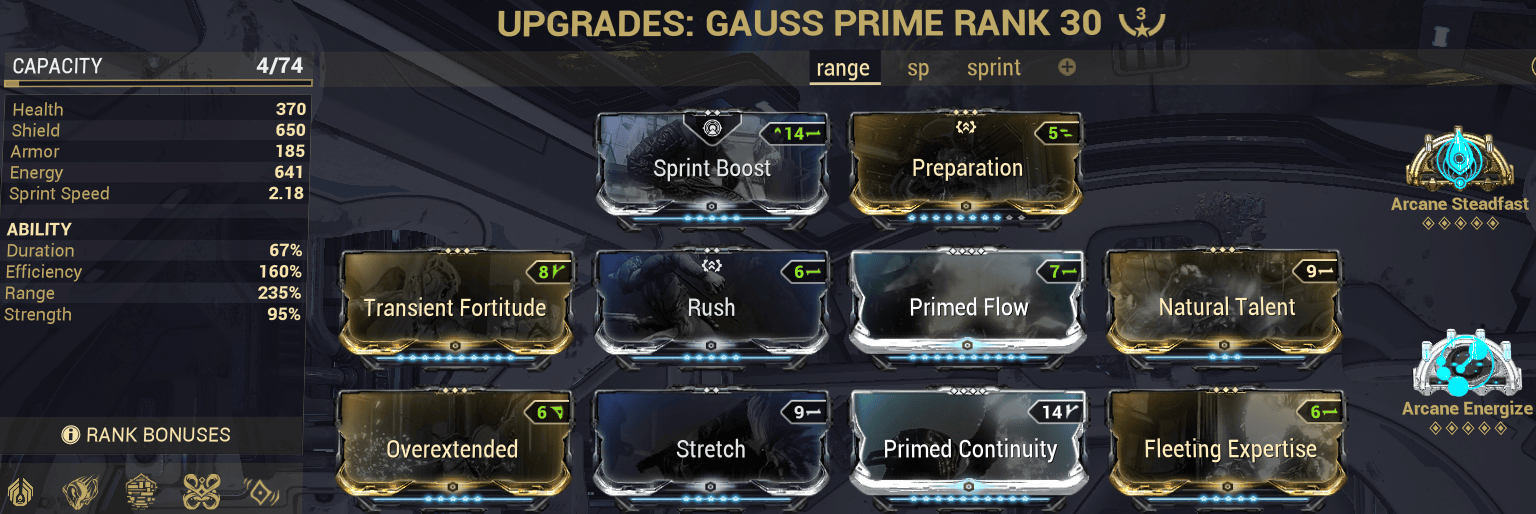
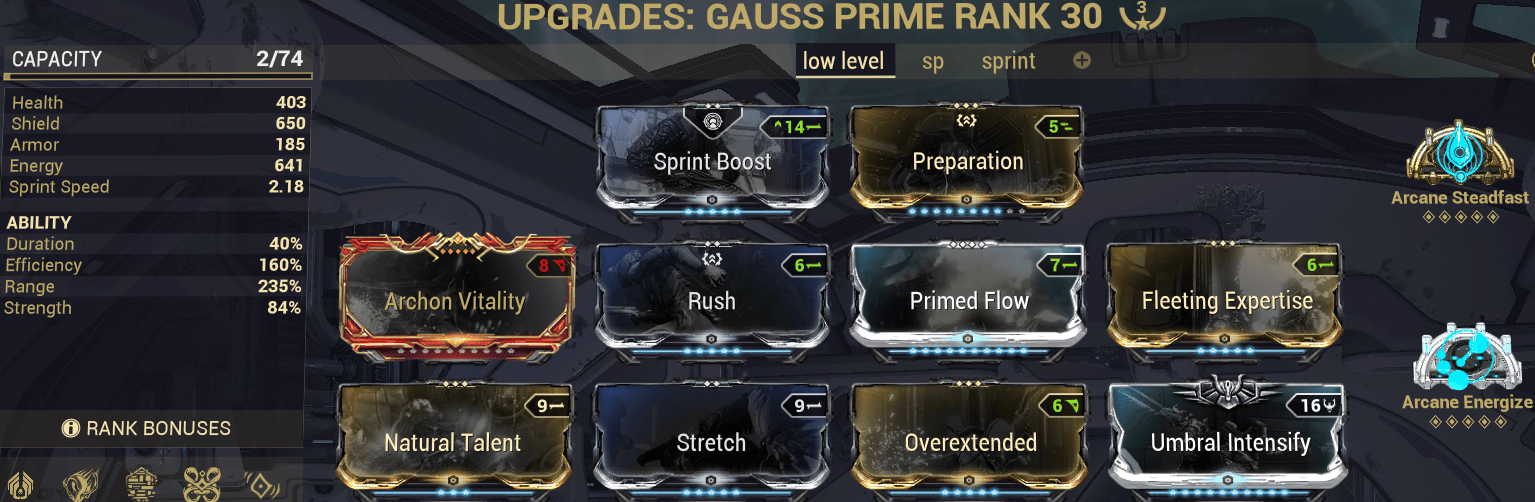
QE{<WE<{QEW{E

diff --git a/buildsforfissures.html b/buildsforfissures.html
@@ -76,7 +76,7 @@
             <!--<iframe id="iframeprogress" width="400" height="225" src="https://www.youtube.com/embed/AjWfY7SnMBI?si=KkwxT_TEeManNPnc" title="YouTube video player" frameborder="0" allow="accelerometer; autoplay; clipboard-write; encrypted-media; gyroscope; picture-in-picture; web-share" referrerpolicy="strict-origin-when-cross-origin" allowfullscreen></iframe>-->
             <div class="pagetext">
                 <p>
-                    The quickest <a href="fissures.html">Void Fissures</a> in Warframe are all exterminate or capture missions, where you will also  have to kill some corrupted enemies to collect reactant to complete the void fissure. <br><br> This is why the best Warframe builds for these quick void fissures must be able to move fast and kill many enemies fast. I would say that the best Warframes for that are Gauss for higher level missions, and Titania with Gauss’ helminth ability injected into her, for lower level missions. <br><br> In both builds, we utilize the power of thermal sunder (gauss’ third ability), and the speed of the Warframe. In game, go to settings > invert tap/hold abilities, and change Gauss to inverted, because we are only going to use thermal sunder’s heat mode. <br><br> When thermal sunder in heat mode is used, it deals damage to enemies around the Warframe, and applies a heat status effect proc. In addition, each subsequent heat proc from thermal sunder deals twice the damage of the previous one. <br><br> Using this ability alone as your damage tool, you can kill several low level enemies with one cast, and you can complete a low level exterminate in about one minute, solo. <br><br> Higher level fissures might take slightly longer, while steel path fissures take about half a minute longer due to the enemies’ sheer effective hitpoints. <br><br> Here are the Warframe builds; Note that these builds have some mods and/or arcanes, which are easiest to get by just buying them with platinum. <br><br> Gauss <br> <img src="/images/gauss1.png" style="width: 100%; height: auto;  display: inline-block; position: relative;"> <br><br> Using this build, you can complete any fast exterminate void fissure in about one minute, and any steel path fast exterminate void fissure in under 2 minutes. <br><br> however, note that to complete steel path exterminates fast, you will need to equip several amber Archon Shards for extra casting speed, to be able to cast thermal sunder more times in the same amount of time, and I would also recommend you to have a strong <a href="https://warframe.fandom.com/wiki/On_Call_Crew"> On Call Crew </a> with a Kuva Zarr with a strong build. 
+                    The quickest <a href="fissures.html">Void Fissures</a> in Warframe are all exterminate or capture missions, where you will also  have to kill some corrupted enemies to collect reactant to complete the void fissure. <br><br> This is why the best Warframe builds for these quick void fissures must be able to move fast and kill many enemies fast. I would say that the best Warframes for that are Gauss for higher level missions, and Titania with Gauss' helminth ability injected into her, for lower level missions. <br><br> You can also use Gauss for lower level missions, I just prefer to use Titania because of her flight.<br><br> In both builds, we utilize the power of thermal sunder (Gauss’ third ability), and the speed of the Warframe. In game, go to settings > invert tap/hold abilities, and change Gauss to inverted, because we are only going to use thermal sunder’s heat mode. <br><br> When thermal sunder in heat mode is used, it deals damage to enemies around the Warframe, and applies a heat status effect proc. In addition, each subsequent heat proc from thermal sunder deals twice the damage of the previous one. <br><br> Using this ability alone as your damage tool, you can kill several low level enemies with one cast, and you can complete a low level exterminate mission in about one minute or less, solo. <br><br> Higher level fissures might take slightly longer, while steel path fissures take about 40 seconds longer due to the enemies' sheer effective hitpoints. <br><br> Here are the Warframe builds; Note that these builds have some mods and arcanes which are easiest to get by just buying them with platinum, which you will need to <a href="plat.html">farm</a> or buy. by the way, you don't need to keep up roar active the entire time, just when you need more damage.<br><br> Gauss <br> <img src="/images/Gauss1.png"> <br><br> High ability range is a must when using thermal sunder as a nuke, so put in Overextended and Stretch. We will also need a lot of energy to spam thermal sunder and use mach rush, so put in Preparation, Primed Flow and maxed Fleeting Expertise. <br><br> Speaking of mach rush, equip Sprint Boost and Rush to spend less time covering X distance thanks to faster sprint speed. <br><br> Umbral Intensify will partially compensate for the Ability Strength reduction from Overextended, use normal intensify instead if it makes more sense in your situation. <br><br> Natural Talent makes you able to cast thermal sunder more times in the same amount of time, and Archon Vitality makes it so that each cast applies 2 heat procs, increasing the damage. <br><br> For Steel Path, I recommend these changes: replace the aura mod with Corrosive Projection to make enemies easier to kill, and replace the maxed Fleeting Expertise + Rush with Rank 4 Fleeting Expertise + Rank 4 Streamline, which will give you exactly 175% Ability Efficiency. <br><br> Steel Path Gauss <img src="/images/gauss2.png"> <br><br> When doing Steel Path fissures with this build, I recommend you to also use several amber <a href="https://warframe.fandom.com/wiki/Archon_Shard">Archon Shards</a> for even more casting speed, and an <a href="https://warframe.fandom.com/wiki/On_Call_Crew">On Call Crew</a> member equipped with a well modded Kuva Zarr to help you clear enemies faster. Also, keep roar active.<br><br> The arcanes are to have more energy to work with, you will be fine even without them for missions which are not on the Steel Path. <br><br> For Arcane Energize, if you can't afford a maxed one, keep in mind that you may buy just 3 of it, and fuse them into a <a href="https://warframe.fandom.com/wiki/Arcane_Enhancement#Rank">Rank 1 Arcane</a>; for 1/7 the cost of the maxed Arcane getting 1/3 of the effect. or buy 6, Fuse them into a Rank 2 arcane, and for 2/7 of the price get 50% of the effect. You get the idea. <br><br> Now, Titania. Titania is a notorious Warframe because she can fly very fast. And if you inject her with Gauss' thermal sunder, you can complete Void Fissures in record time. Here's the build: <br><br> Titania<br><img src="/images/titania1.png"> <br><br> This build is basically the same as the first Gauss build, just with Enemy Radar in the aura mod slot, and Razorwing Blitz instead of Rush. <br><br> Use Unairu focus school with maxed <a href="https://warframe.fandom.com/wiki/Focus/Unairu#Poise">Poise</a> to stop getting staggered when colliding with walls. To activate it with the least disturbance to your gameplay, use transference, then melee, then switch weapon (on PC, by default, 5 + E + F). <br><br> Dex Pixia build<br><img src="/images/dexpixia.png"> <br><br> For Titania's guns, I recommend to use these mods, which result in the combination of corrosive + radiation + heat, Titania's guns with these mods will shred basically any enemy you will face in a normal void fissure. 
                 </p>
             </div>
         </div>

diff --git a/fissures.html b/fissures.html
@@ -76,7 +76,7 @@
             <!--<iframe id="iframeresources" width="400" height="225" src="https://www.youtube.com/embed/AjWfY7SnMBI?si=KkwxT_TEeManNPnc" title="YouTube video player" frameborder="0" allow="accelerometer; autoplay; clipboard-write; encrypted-media; gyroscope; picture-in-picture; web-share" referrerpolicy="strict-origin-when-cross-origin" allowfullscreen></iframe>-->
             <div class="pagetext">
                 <p>
-                    Void Fissures are special missions which work very similarly to regular missions. Before starting a void fissure, you can pick a void relic to open, and in addition to the mission objective, you must collect 10 reactant* to open that void relic. <br><br> Reactant drop from corrupted enemies. During a void fissure, corrupted enemies will occasionally spawn in, and in addition, regular enemies will corrupt automatically, typically shortly after at least half of the tenno squad gets close to them. <br><br> <span class="subheading"> The fastest void fissure missions </span> Void fissures take some time to complete, obviously. Since the reward for completing a void fissure of different missions is the same, it makes sense to go for the ones that take the least amount of time. <br><br> Here is a list of the fastest void fissure missions: <br><br> Top Tier:<br> Lith: Mariana, Earth. Meso: Pallas, Ceres. Neo: Armaros, Europa. Axi: Saxis, Eris. <br><br>Second Best: <br> Lith: E Prime, Earth. Meso: Roche, Phobos. Neo: Baal, Europa. Axi: Isos, Eris. <br><br> The following missions drop Lith relics on completion: <br> Hepit, Void – neo/axi capture. Teshub, Void – neo/axi exterminate. <br><br> The following missions drop Meso/Neo relics on completion:<br> Ukko, Void – neo/axi capture. Oxomoco, Void – neo/axi exterminate. <br><br> <span class="subheading"> Strategy </span> As you may have noticed, the quickest void fissures in the list above are mostly exterminate, and 3 captures. The thing they all have in common is that all you have to do to complete them is move forward, kill and collect reactant, and maybe capture one target. <br><br> This is why the loadouts which allow you to complete these missions the fastest, always include a Warframe that can move fast, and a way to kill enemies fast, usually with the Warframe's abilities, but possibly with other equipment. <br><br> Warframe.school has a separate page about<a href="buildsforfissures.html"> the best Warframe builds for void fissures</a>. <br><br> <span class="subheading">Strategy for beginners</span> If you're a beginner, when doing a void fissure, there will naturally be less expectations from you than from a player with a high mastery rank. However, here are the things which you should never forget: <br><br> Never go into a void fissure without a void relic. <br><br> Always try your best to not fall behind the other players, in terms of your position on the map. Even if it's your first void fissure ever, even using a starter Warframe, it is possible to keep up with almost anyone if your parkour skills are good. <br><br> Here are some things which improve QOL when doing void fissures:  <br><br> Use a companion with the (MAXED!) mod<a href="https://warframe.fandom.com/wiki/Vacuum"> [Vacuum]</a> for robotic companions or <a href="https://warframe.fandom.com/wiki/Fetch"> [Fetch]</a> if you have an animal. <br><br> Go for the fastest void fissure missions that were mentioned before, preferably those that you can complete relatively fast even without help. <br><br> Good luck farming! <br><br> *The plural form of Warframe's "reactant" is "reactant".   
+                    Void Fissures are special missions which work very similarly to regular missions. Before starting a void fissure, you can pick a void relic to open, and in addition to the mission objective, you must collect 10 reactant* to open that void relic. <br><br> Reactant drop from corrupted enemies. During a void fissure, corrupted enemies will occasionally spawn in, and in addition, regular enemies will corrupt automatically, typically shortly after at least half of the tenno squad gets close to them. <br><br> <span class="subheading"> The fastest void fissure missions </span> Void fissures take some time to complete, obviously. Since the reward for completing a void fissure of different missions is the same, it makes sense to go for the ones that take the least amount of time. <br><br> Here is a list of the fastest void fissure missions: <br><br> Top Tier:<br> Lith: Mariana, Earth. Meso: Pallas, Ceres. Neo: Armaros, Europa. Axi: Saxis, Eris. <br><br>Second Best: <br> Lith: E Prime, Earth. Meso: Roche, Phobos. Neo: Baal, Europa. Axi: Isos, Eris. <br><br> The following missions drop Lith relics on completion: <br> Hepit, Void – neo/axi capture. Teshub, Void – neo/axi exterminate. <br><br> The following missions drop Meso/Neo relics on completion, but they might be slower because of the void tileset:<br> Ukko, Void – neo/axi capture. Oxomoco, Void – neo/axi exterminate. <br><br> <span class="subheading"> Strategy </span> As you may have noticed, the quickest void fissures in the list above are mostly exterminate, and 3 captures. The thing they all have in common is that all you have to do to complete them is move forward, kill and collect reactant, and maybe capture one target. <br><br> This is why the loadouts which allow you to complete these missions the fastest, always include a Warframe that can move fast, and a way to kill enemies fast, usually with the Warframe's abilities, but possibly with other equipment. <br><br> Warframe.school has a separate page about<a href="buildsforfissures.html"> the best Warframe builds for void fissures</a>. <br><br> <span class="subheading">Strategy for beginners</span> If you're a beginner, when doing a void fissure, there will naturally be less expectations from you than from a player with a high mastery rank. However, here are the things which you should never forget: <br><br> Never go into a void fissure without a void relic. <br><br> Always try your best to not fall behind the other players, in terms of your position on the map. Even if it's your first void fissure ever, even using a starter Warframe, it is possible to keep up with almost anyone if your parkour skills are good. <br><br> Here are some things which improve QOL when doing void fissures:  <br><br> Use a companion with the (MAXED!) mod<a href="https://warframe.fandom.com/wiki/Vacuum"> [Vacuum]</a> for robotic companions or <a href="https://warframe.fandom.com/wiki/Fetch"> [Fetch]</a> if you have an animal. <br><br> Go for the fastest void fissure missions that were mentioned before, preferably those that you can complete relatively fast even without help. <br><br> Good luck farming! <br><br> *The plural form of Warframe's "reactant" is "reactant".   
                 </p>
             </div>
         </div>

diff --git a/script.js b/script.js
@@ -21,7 +21,7 @@ const imageUrls = ["/images/icon.png", "/images/yellowlogo.png", "/images/yellow
 "/images/bluelogo.png", "/images/redlogo.png", "/images/whitelogo.png", "/images/burger.png", 
 "/images/blueburger.png", "/images/redburger.png", "/images/whiteburger.png", "/images/1.png", 
 "/images/2.png", "/images/lightburger.png", "/images/builds.png", "/images/lightlogo.png",
-"/images/gauss1.png", "/images/gauss2.png", "/images/titania1.png"];
+"/images/gauss1.png", "/images/gauss2.png", "/images/titania1.png", "/images/dexpixia.png"];
 const searchResultsList = document.getElementById("searchResultsList");
 const pages = [ 
   {title:"Top Warframe Platinum Farm for Beginners", url:"plat.html"}, 

diff --git a/style.css b/style.css
@@ -588,6 +588,13 @@ color: var(--redtextcolor);
     
 }
 
+.pagetext img{
+    width: 100%; 
+    height: auto;  
+    display: inline-block; 
+    position: relative;
+}
+
 .pagetext p{
     line-height: 1.8;
 }
